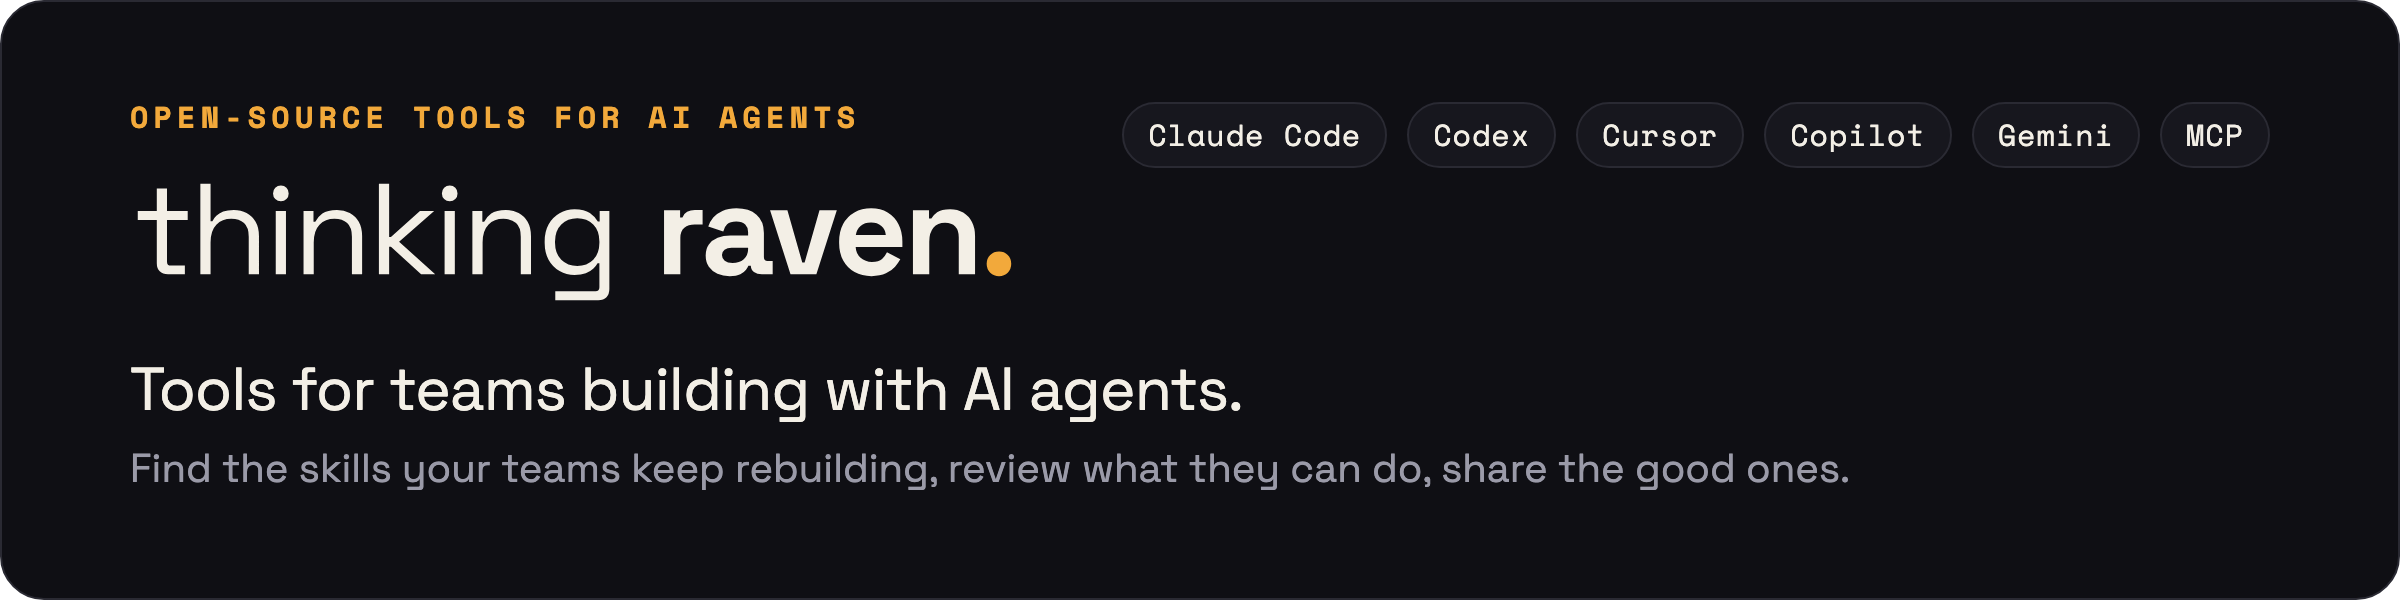
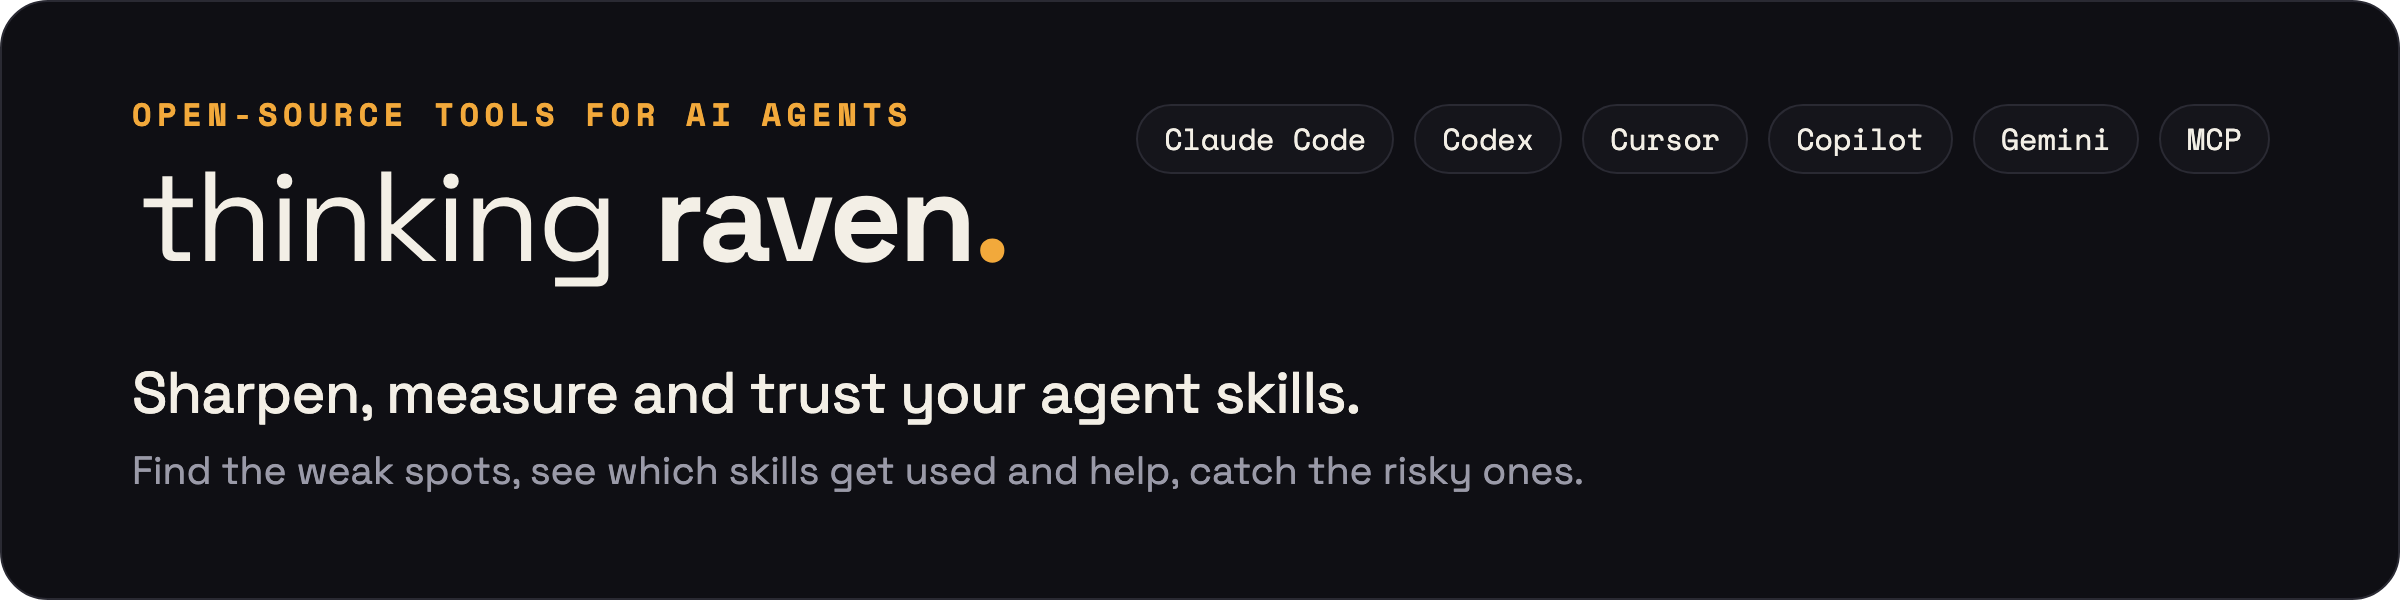
Profile: "Sharpen, measure and trust your agent skills."
Matches the new site tagline. The banner keeps its layout and type with
the new headline and line; the intro now says what we're building
(sharpen, measure, trust); "Now" describes rookery as it is; "Next" is
seeing which skills actually help, replacing the registry plan.

diff --git a/profile/README.md b/profile/README.md
@@ -1,13 +1,13 @@
-<a href="https://github.com/thinkingraven"><img src="https://raw.githubusercontent.com/thinkingraven/.github/main/profile/assets/banner.png" width="100%" alt="thinking raven. Open-source tools for AI agents. Tools for teams building with AI agents: find the skills your teams keep rebuilding, review what they can do, share the good ones."></a>
+<a href="https://github.com/thinkingraven"><img src="https://raw.githubusercontent.com/thinkingraven/.github/main/profile/assets/banner.png" width="100%" alt="thinking raven. Open-source tools for AI agents. Sharpen, measure and trust your agent skills: find the weak spots, see which skills get used and help, catch the risky ones. Works with Claude Code, Codex, Cursor, Copilot, Gemini and MCP."></a>
 
-Teams everywhere are writing the same agent skills, rules and MCP configs, in every repo and for every tool, and nobody checks what they're allowed to do. We're building the tools to **see them, review them and share the good ones**, in the open.
+Teams everywhere are writing agent skills, rules and MCP configs, in every repo and for every tool, and almost nobody can say which ones are any good, which ones get used or what they're allowed to do. We're building the tools to **sharpen them, measure them and trust them**, in the open.
 
 <a href="https://github.com/thinkingraven/rookery"><img src="https://raw.githubusercontent.com/thinkingraven/.github/main/profile/assets/rookery.png" width="100%" alt="rookery: find every AI agent skill in your repos, spot the duplicates, catch the risky ones. A CLI and GitHub Action for Claude Code, Codex, Cursor, Copilot, Gemini, Windsurf, MCP and skillshare."></a>
 
 <a href="https://github.com/thinkingraven/roost"><img src="https://raw.githubusercontent.com/thinkingraven/.github/main/profile/assets/roost.png" width="100%" alt="roost: see what your AI agents actually use, keep what works, retire the rest. A CLI that runs locally on Claude Code, Codex and Gemini CLI session logs: skills, subagents, MCP servers and tokens."></a>
 
-**Now:** [rookery](https://github.com/thinkingraven/rookery), an inventory and security check for every agent skill across your repos (`npx @thinkingraven/rookery scan .`), and [roost](https://github.com/thinkingraven/roost), which shows what your agents actually use: skills, subagents, MCP servers and tokens, read locally from their session logs.<br>
-**Next:** a registry to publish, review and measure the skills worth sharing across a company.
+**Now:** [rookery](https://github.com/thinkingraven/rookery), which finds every agent skill across your repos, spots the duplicates and catches the risky ones (`npx @thinkingraven/rookery scan .`), and [roost](https://github.com/thinkingraven/roost), which shows what your agents actually use: skills, subagents, MCP servers and tokens, read locally from their session logs.<br>
+**Next:** seeing which skills actually help your teams, not just which ones run.
 
 [![Website](https://img.shields.io/badge/Web-thinkingraven.com-2A2A33?style=flat-square&labelColor=0F0F14)](https://thinkingraven.com)
 [![X](https://img.shields.io/badge/X-%40thinkingravenai-2A2A33?style=flat-square&logo=x&logoColor=F3EFE6&labelColor=0F0F14)](https://x.com/thinkingravenai)
